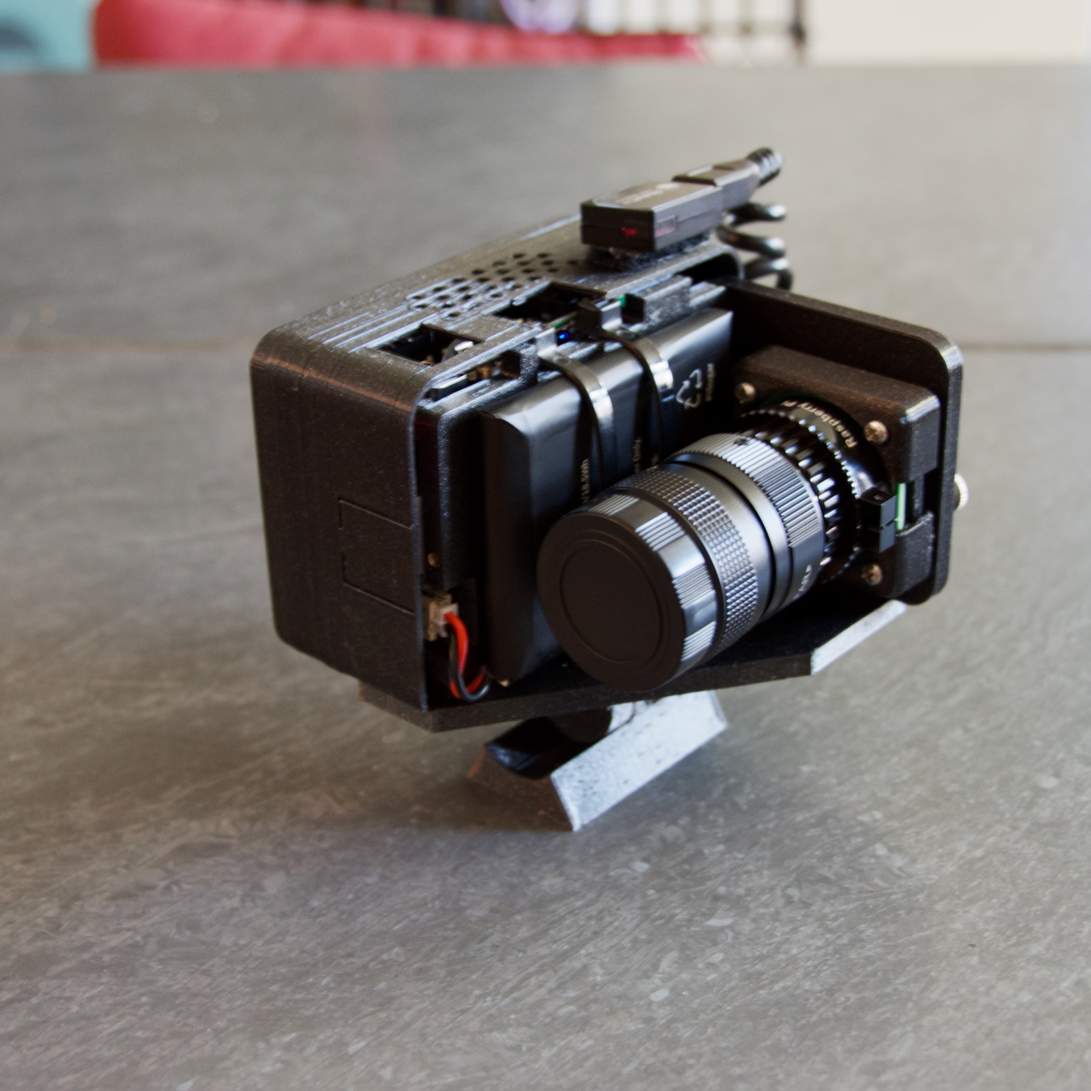
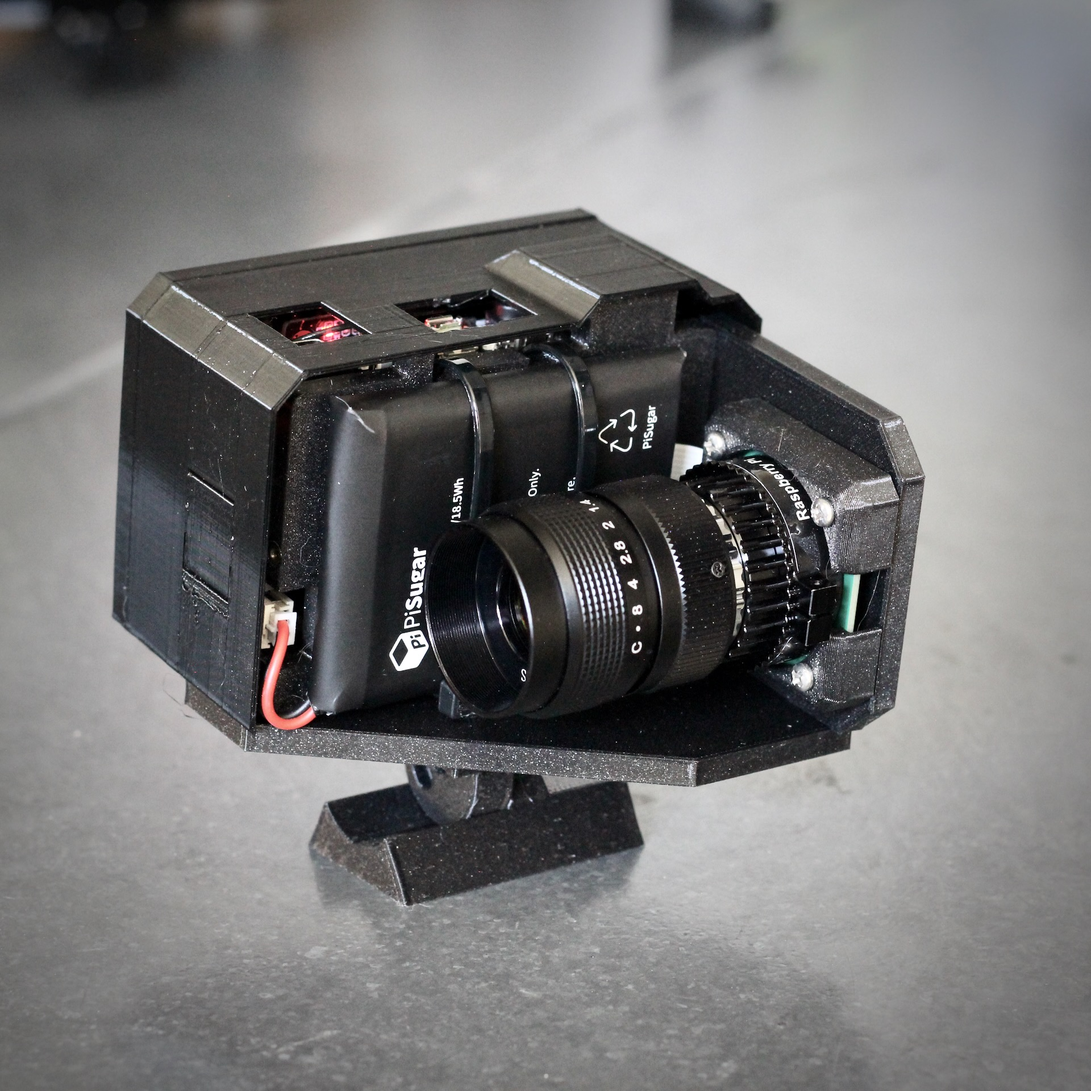
Swap most photos for Quick Start

diff --git a/docs/source/quick_start.rst b/docs/source/quick_start.rst
@@ -11,6 +11,11 @@ PiFinder uses its camera to take continuous pictures of the stars it sees, compa
 
 PiFinder was created by software engineer and amateur astronomer Richard Wolff-Jacobson, who realized he could use his engineering and coding experience to create a brand new way to get more out of his time at the telescope. He saw that plate solving technology could be handled by the famous Raspberry Pi single-board computer and a simple camera. The software and rig he developed will turn your telescope into an accurate guide through the night sky.
 
+.. image:: images/quick_start/hardware_revision2.jpeg
+
+.. note::
+   We've recently updated the hardware and design of the PiFinder and are working to take new photographs and update this documentation.  The photo above shows the latest version of the PiFinder which has the GPS module fully integrated and does not have the physical camera adjustment system with the thumbscrews, but some of the photos below will show previous versions of the PiFinder.  Please `reach out <mailto: info@pifinder.io>`_ with any questions.
+
 
 Unboxing
 --------
@@ -177,7 +182,7 @@ Choose the number that represents the star currently in your telescope’s eyepi
 .. image:: images/quick_start/align_CAMERA_004_docs.png
 
 .. note::
-   **Can’t find your star on the ALIGN screen?** You can use the hardware thumbscrews on the back of the PiFinder to adjust where the camera is pointing relative to your telescope.  Loosen some screws as you tighten others and wait between each adjusment for a new image to be taken.
+   **Can’t find your star on the ALIGN screen?** The PiFinder camera field of view is 10 degrees, which is about 20 full moons wide.  If the star you are looking at with your telescope is not in this field, check the physical alignment of your finder shoe to make sure it's roughly parallel to your telescopes optical tube. 
 
 
 Find Your First Object
